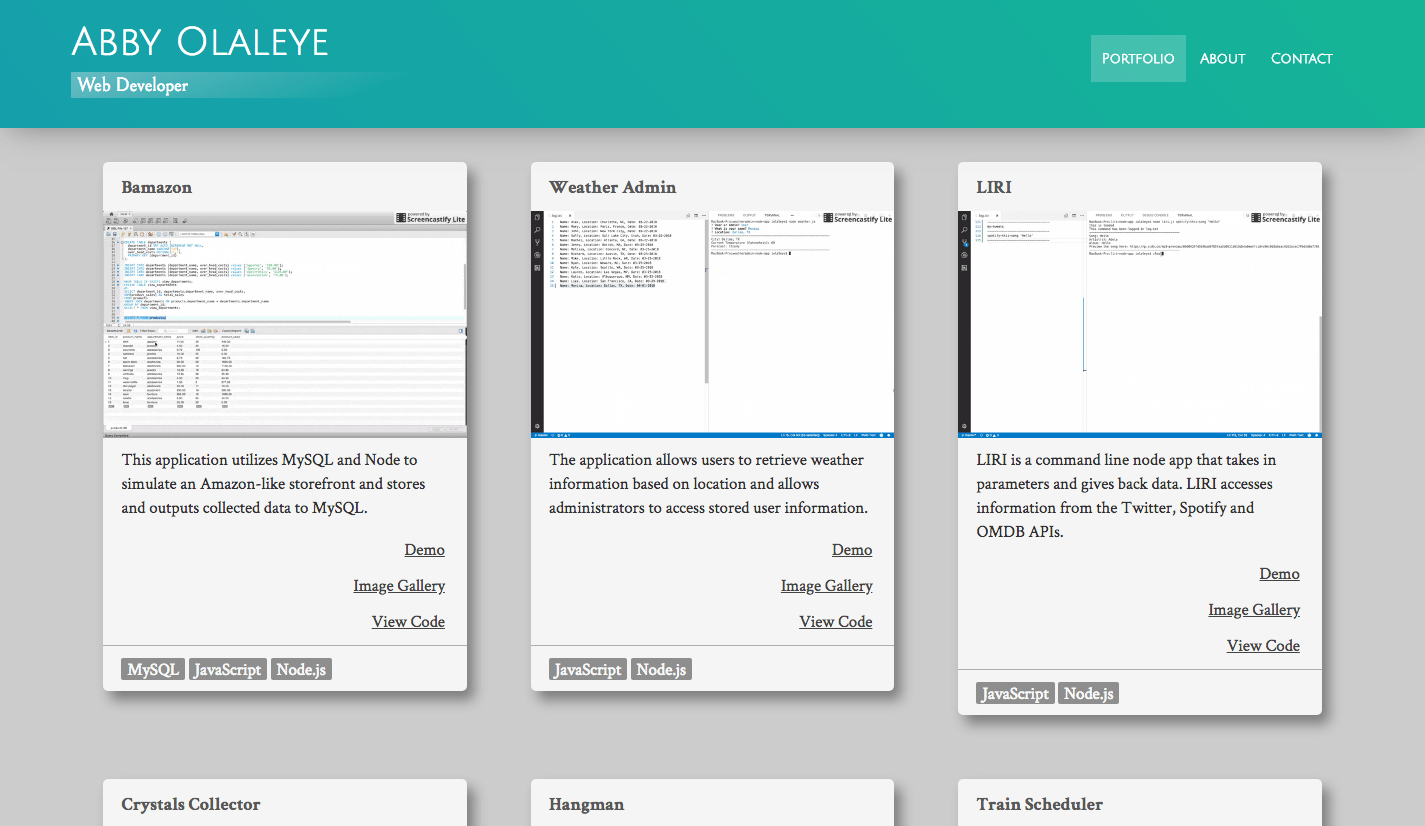
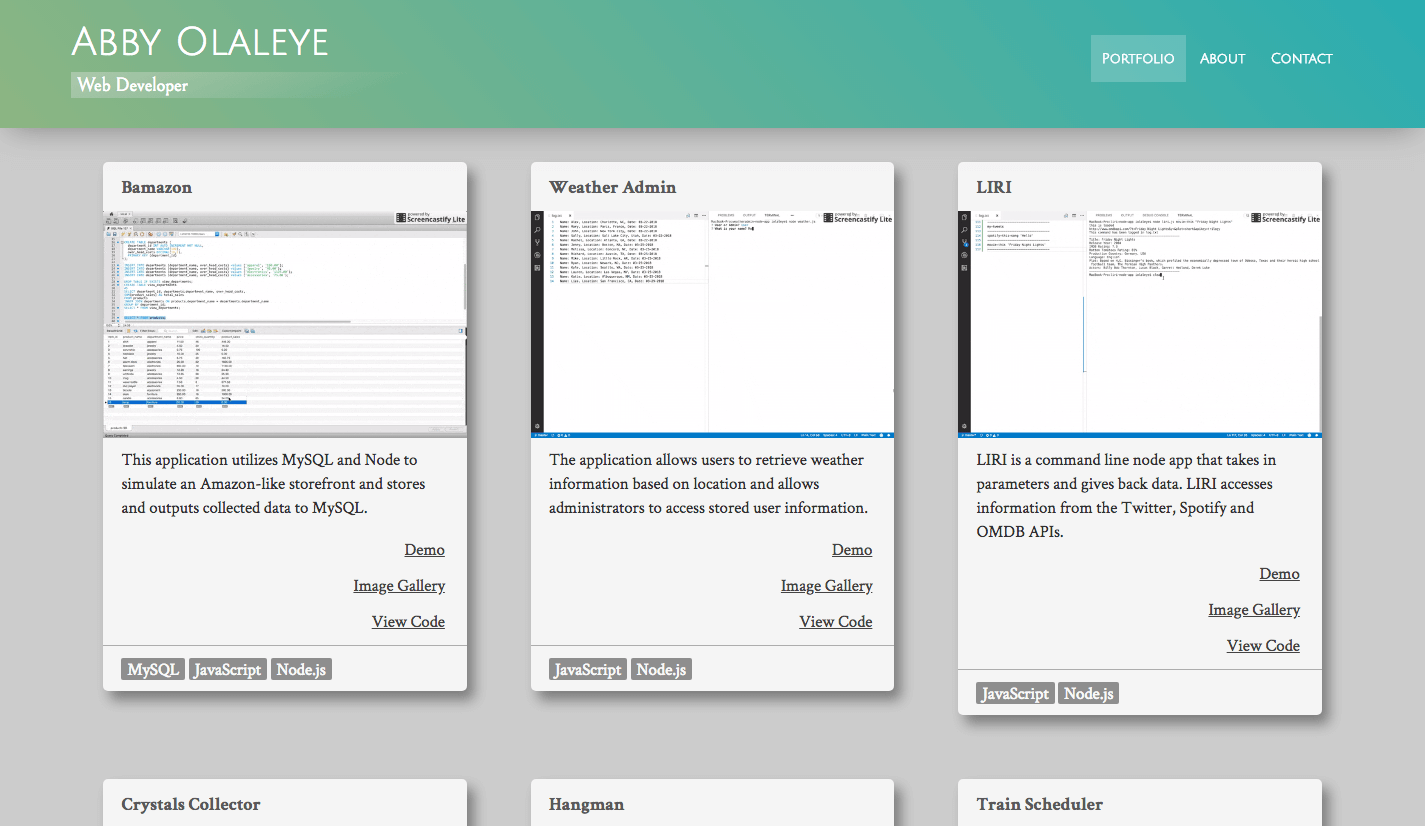
updated contents in README

diff --git a/README.md b/README.md
@@ -2,7 +2,7 @@
 
 __Created with custom css, this website showcases my portfolio of projects in web development and design.__ 
 
-* The website includes an About Me page that provides information on my background, skills, and education, and a Contact page that provides contact information.
+* The website includes a Portfolio page which lists and details the projects I've worked on, an About Me page that provides information on my background, skills, and education, and a Contact page that provides contact information.
 
 #### > __Check it Out:__
-[![Portfolio](img/portfolio1.png)](http://abbyolaleye.com/)
+[![Portfolio](img/portfolio2.png)](http://abbyolaleye.com/)
